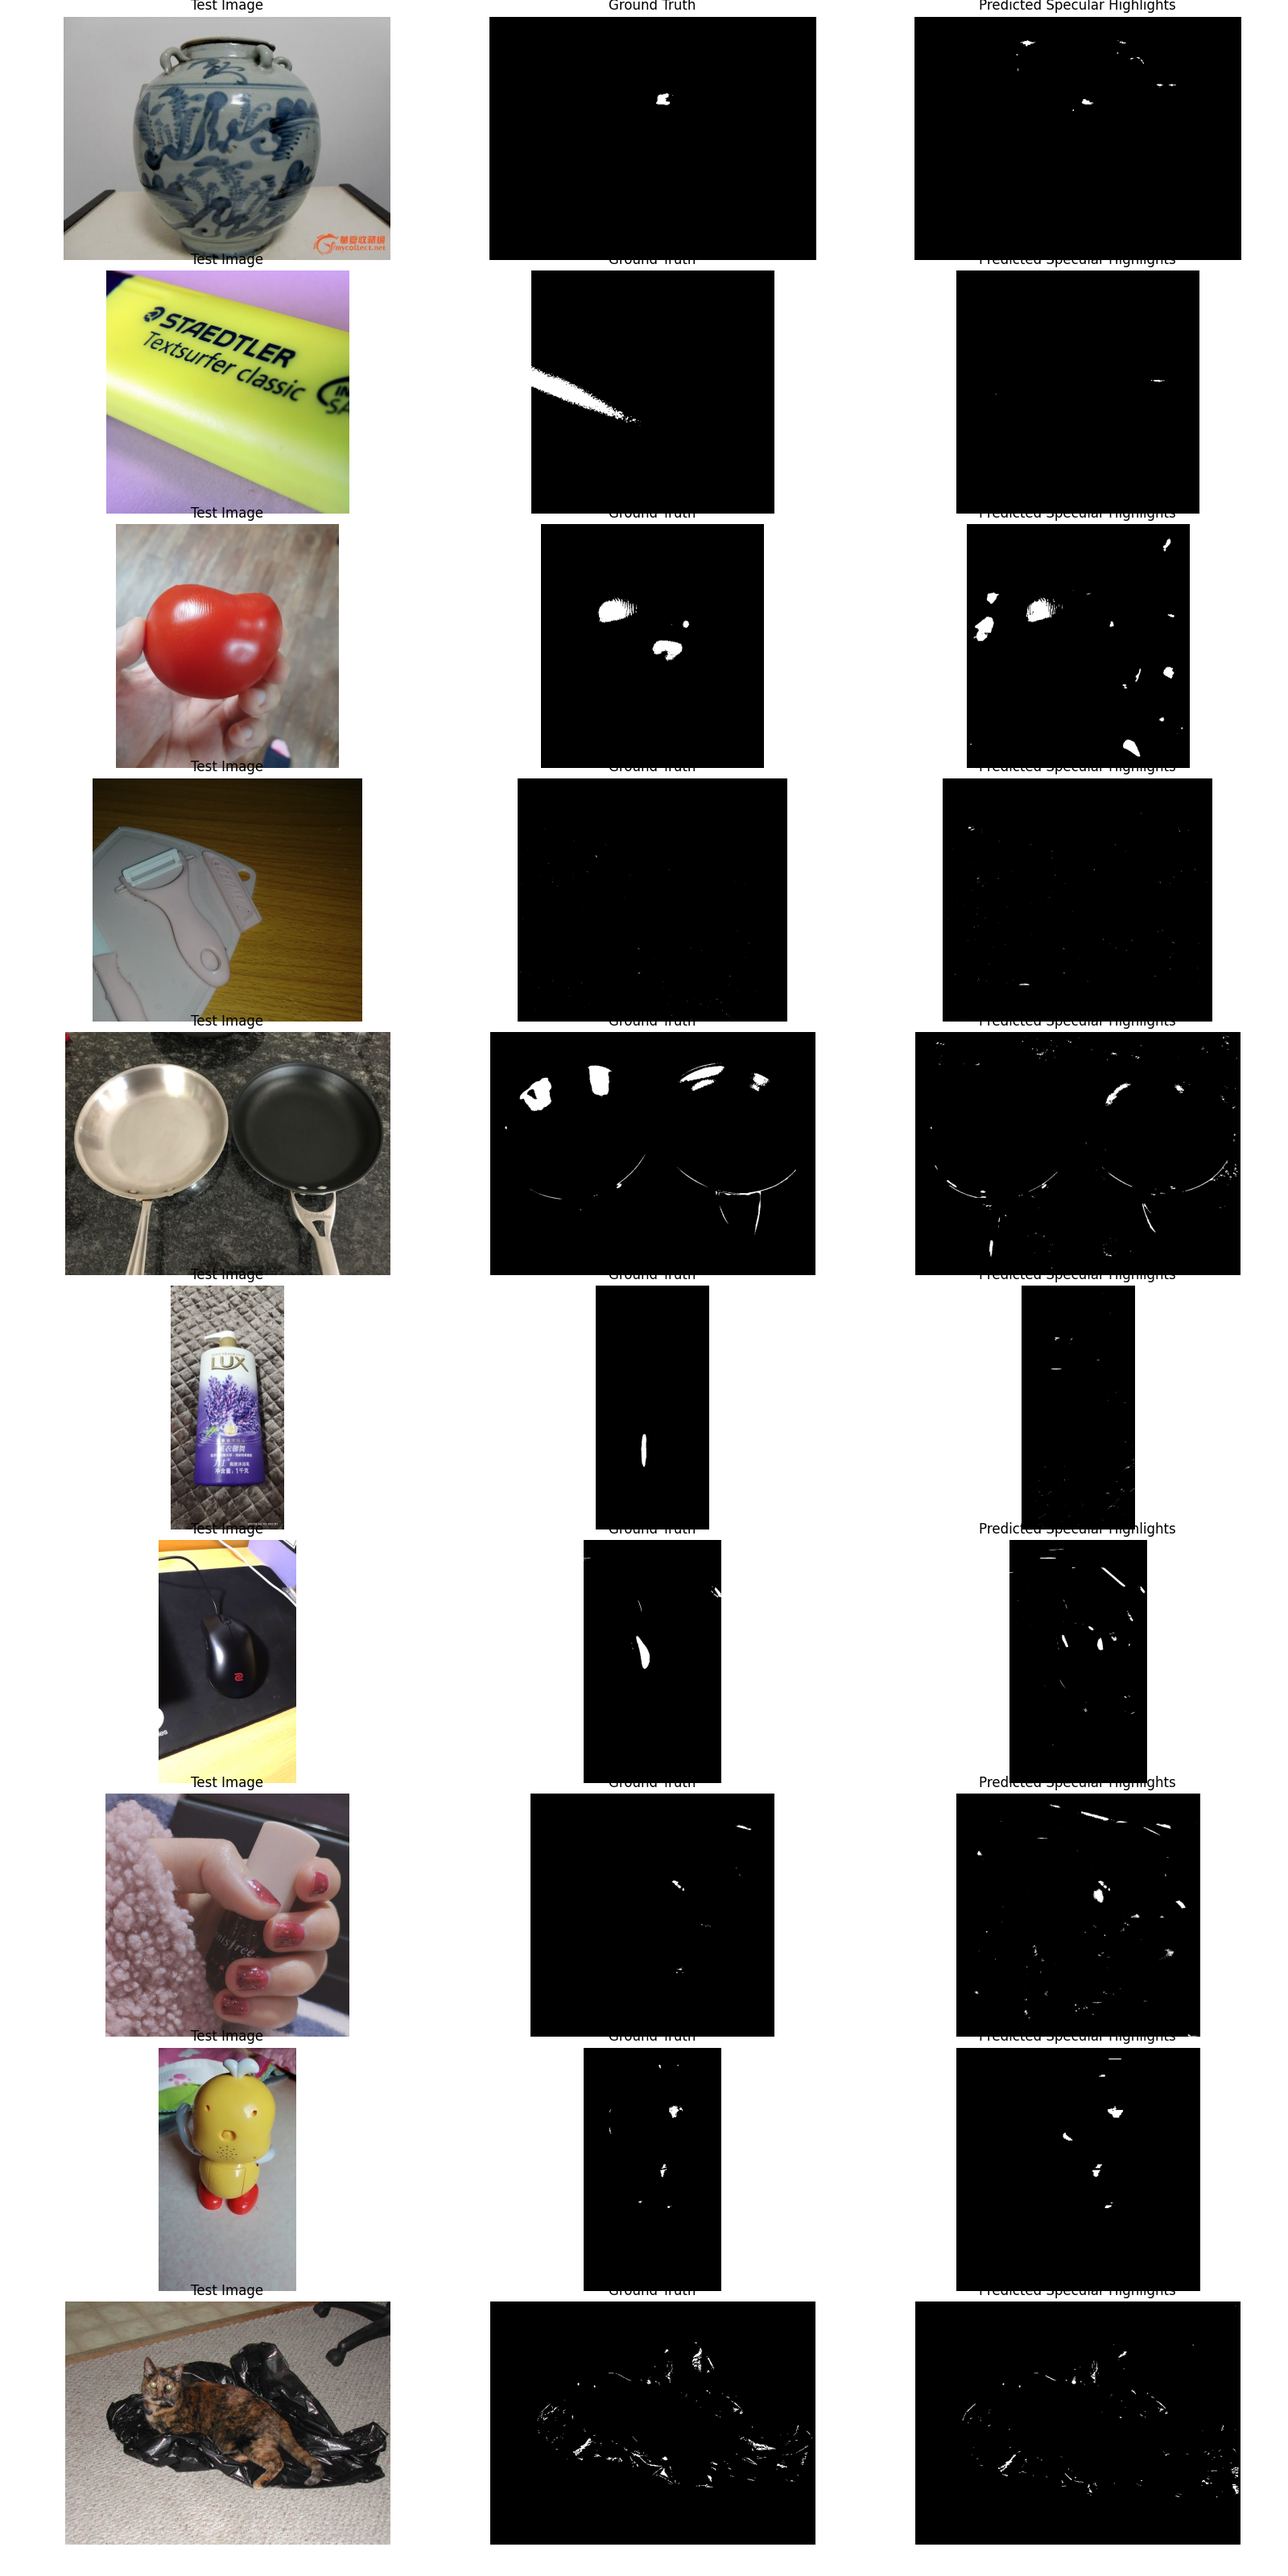
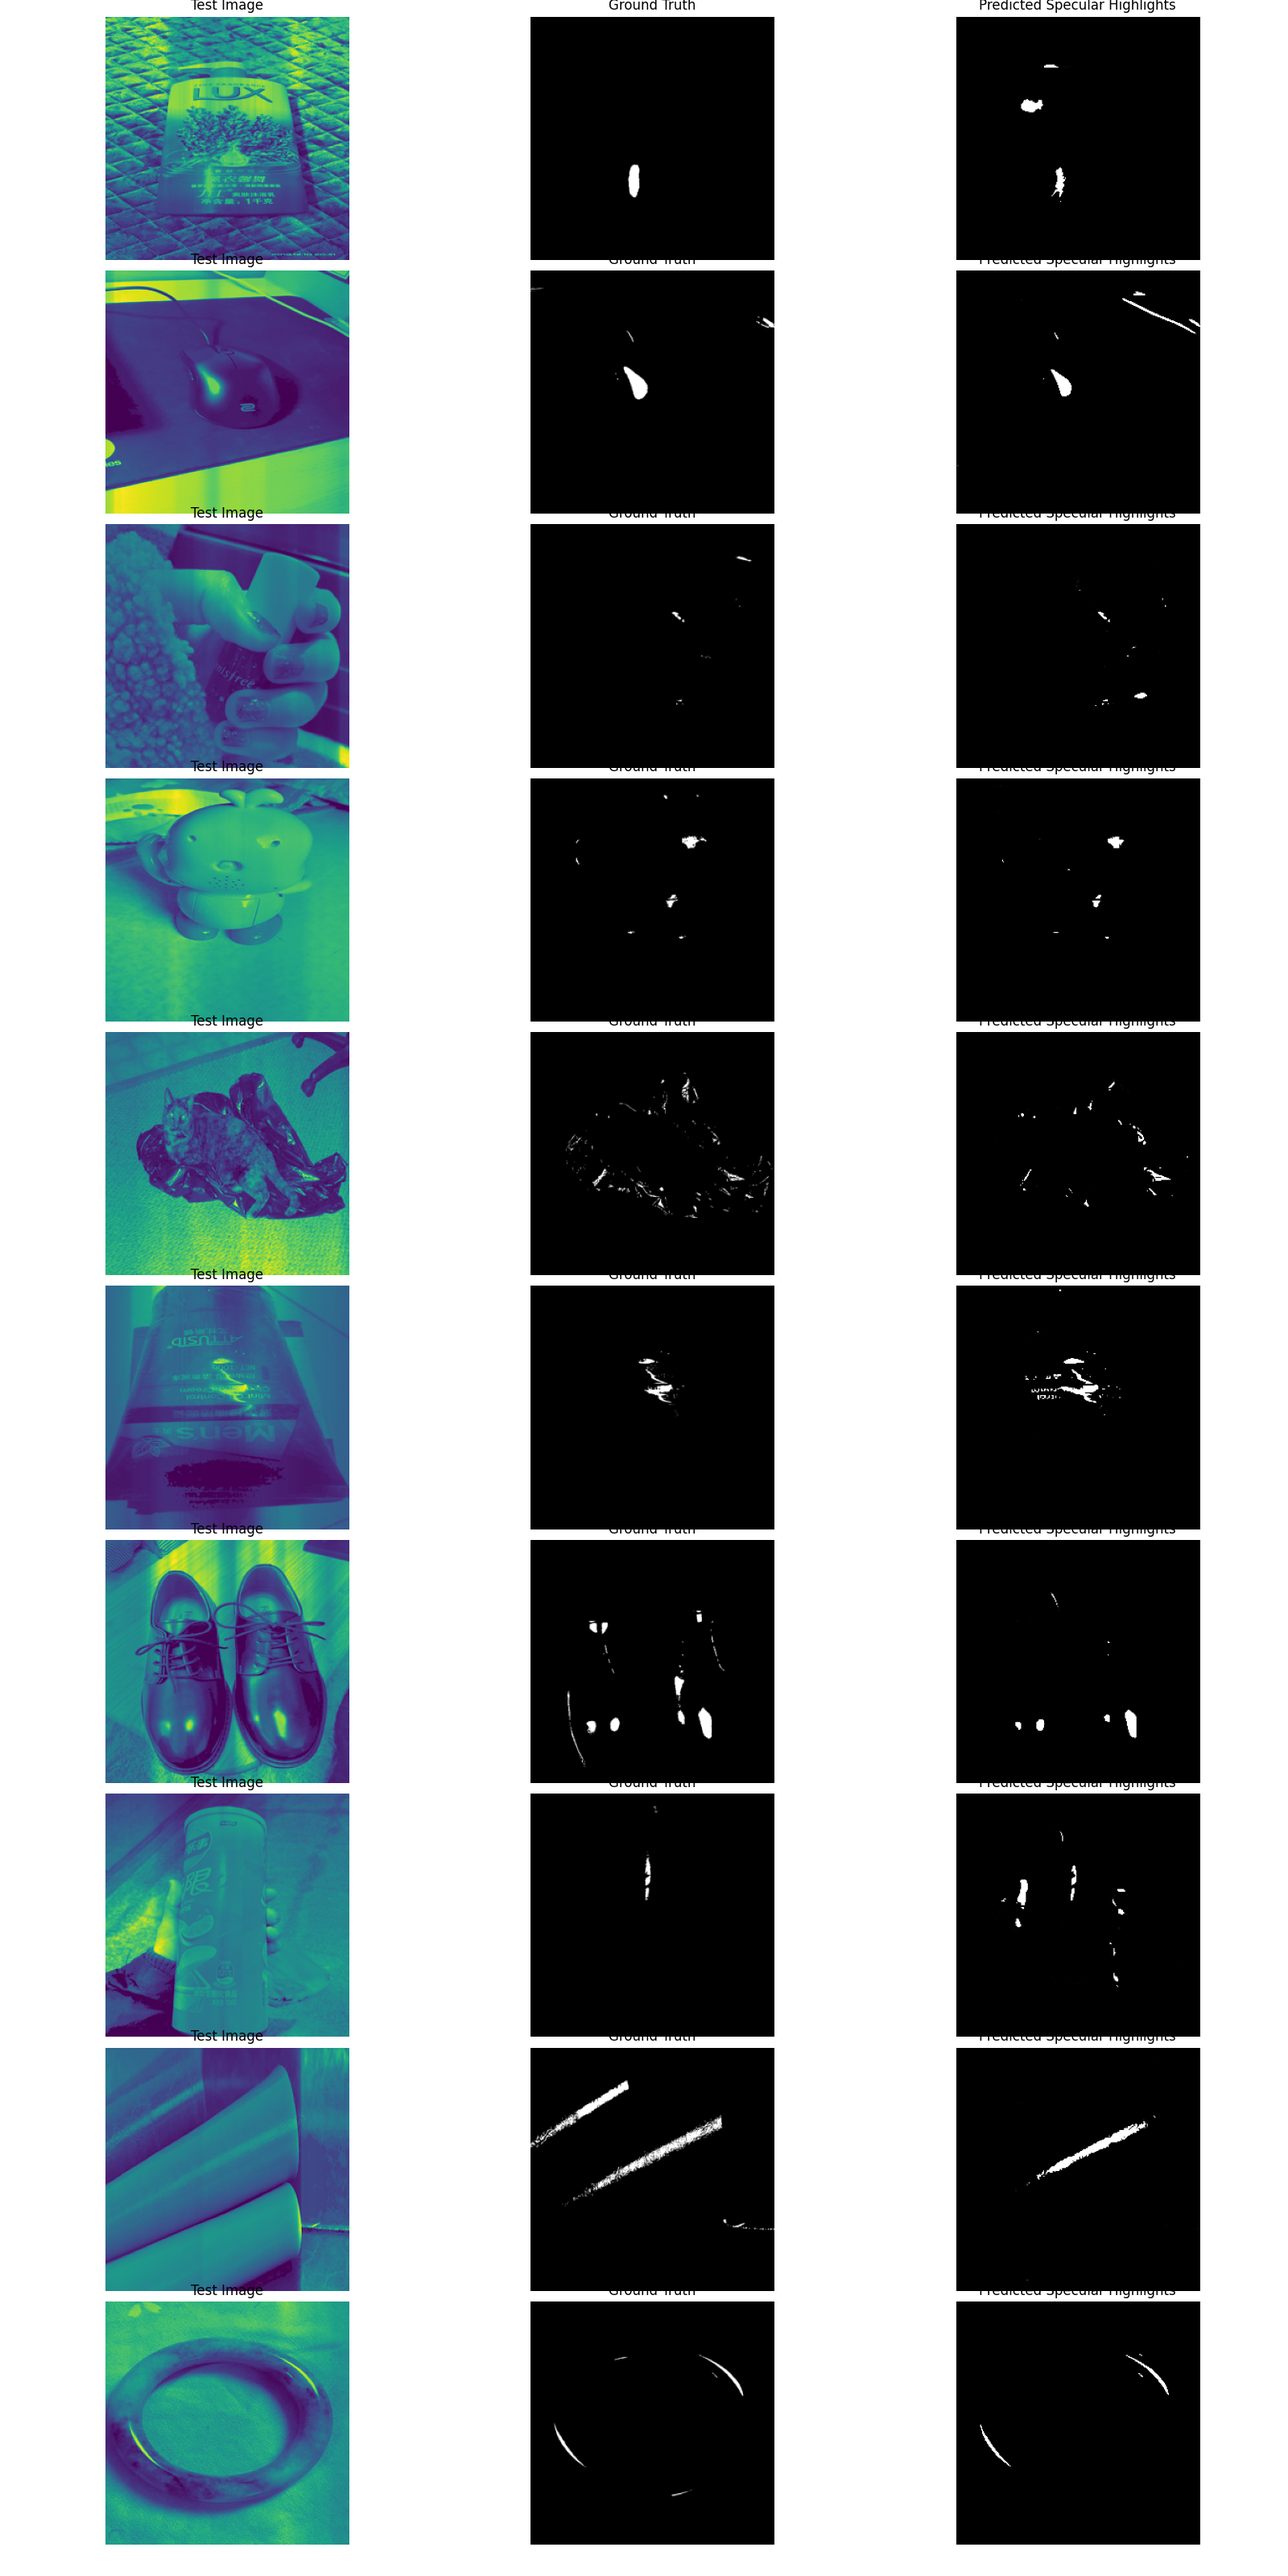
Resized and Full RGB images with Hydra multi-run

diff --git a/src/SpecSegv2.py b/src/SpecSegv2.py
@@ -205,42 +205,28 @@ def SpecSegv2( cfg: DictConfig ) -> None:
 
 
     # ---- Load SpecSeg Model ----
-    model = specseg(cfg.params.IMG_HEIGHT, cfg.params.IMG_WIDTH, cfg.params.IMG_CHANNELS)
+    # model = specseg(cfg.params.IMG_HEIGHT, cfg.params.IMG_WIDTH, cfg.params.IMG_CHANNELS)
+    model = specseg(None, None, cfg.params.IMG_CHANNELS)
+
     model.load_weights('SpecSeg_weights.hdf5') #Trained for 50 epochs and then additional 100
 
     # ---- Load Dataset in eithre RAM or as TF dataset ----
     # Load dataset using the Tensorflow dataset loader or directly into RAM
     if cfg.params.dataset_load == "TFLoader":
         length_dataset, Dataset, test_datset = datasetLoad_tf( cfg )
-    elif cfg.params.dataset_load == "RAM":
+    elif cfg.params.dataset_load == "RGB_RAM":
         image_dataset, mask_dataset = datasetload_ram( cfg )
+    elif cfg.params.dataset_load == "RESIZED_RAM":
+        image_dataset, mask_dataset = datasetload_ram_resized( cfg )
 
     # Make the iterator from the zipped datasets
     iterator = (zip(image_dataset, mask_dataset))
-
-    # # ---- To check if data loaded correctly ----
-    # image_number = random.randint(0, len(image_dataset))
-    # plt.figure(figsize=(12, 6))
-    # plt.subplot(121)
-    # # plt.imshow(np.reshape(X_train[image_number], (SIZE, SIZE)), cmap='gray')
-    # plt.imshow(image_dataset[image_number])
-    # plt.axis('off')
-    # plt.subplot(122)
-    # # plt.imshow(np.reshape(y_train[image_number], (SIZE, SIZE)), cmap='gray')
-    # plt.imshow(mask_dataset[image_number], cmap='gray')
-    # plt.axis('off')
-    # plt.show()
-
-    # # Get the next set of images
-    # element = next(iterator)
-    # # orig0   = element[0]
-    # # orig45  = element[1]
 
     # ---- Test on Random images ----
     # Enter number of images to test on
     num_images = 10
     # The starting index number from the images loaded
-    start = 20
+    start = 25
     index = 0
     img_no = 0
     fig, axes = plt.subplots(nrows=3, ncols=3, figsize=(16,32))
@@ -248,15 +234,19 @@ def SpecSegv2( cfg: DictConfig ) -> None:
     for i in tqdm(range(start, start+num_images), desc='Testing Image #', unit=' images'):
 
         test_img_number = i
-        test_img = cv2.cvtColor(image_dataset[test_img_number], cv2.COLOR_RGB2GRAY)
 
+        if cfg.params.dataset_load == 'RGB_RAM':
+            """ For testing Original RGB images """
+            test_img = cv2.cvtColor(image_dataset[test_img_number], cv2.COLOR_RGB2GRAY)
+            segmented_image = predict_patches(model, test_img, cfg.params.patch_size)
 
-        segmented_image = predict_patches(model, test_img, cfg.params.patch_size)
-        # plt.hist(segmented_image.flatten())  #Threshold everything above 0
+        elif cfg.params.dataset_load == 'RESIZED_RAM':
+            """ For testing resized images """
+            test_img = image_dataset[test_img_number]
+            test_img_norm=test_img[:,:,0][:,:,None]
+            test_img_input=np.expand_dims(test_img_norm, 0)
+            segmented_image = (model.predict(test_img_input)[0,:,:,0] )
 
-        # test_img_norm=test_img[:,:,0][:,:,None]
-        # test_img_input=np.expand_dims(test_img_norm, 0)
-        # prediction = (model.predict(test_img_input)[0,:,:,0] )
         # --------------TEST IMAGE-----------------
         plt.subplot(num_images,3,index+1)
         plt.title('Test Image')
@@ -467,6 +457,8 @@ def datasetload_ram( cfg: DictConfig ):
         if (image_name.split('.')[1] == 'png'):
             # Loading images as RGB
             image = cv2.cvtColor( cv2.imread(image_directory+image_name), cv2.COLOR_BGR2RGB)
+            # Load image as Grayscale
+            # image = cv2.imread(image_directory+image_name, 0)
             image = Image.fromarray(image)
             # image = image.resize( (SIZE, SIZE) )
             # q = np.array(image)
@@ -498,6 +490,58 @@ def datasetload_ram( cfg: DictConfig ):
     # return X_train, y_train, X_test, Y_test
     return image_dataset, mask_dataset
 
+@_time
+def datasetload_ram_resized( cfg: DictConfig ):
+    """
+    # --------------------------------------------------------------
+    #                       LOAD IMAGES IN RAM                     |
+    # --------------------------------------------------------------
+    """
+    image_directory = cfg.files.test_img_dir
+    mask_directory  = cfg.files.test_mask_dir
+
+    SIZE = 256
+    image_dataset = []  #Many ways to handle data, you can use pandas. Here, we are using a list format.
+    mask_dataset = []  #Place holders to define add labels. We will add 0 to all parasitized images and 1 to uninfected.
+
+    logging.info("Loading Test images")
+    images = natsorted(os.listdir(image_directory))
+    for i, image_name in enumerate(tqdm(images, desc='Test Images', unit=' images')):    #Remember enumerate method adds a counter and returns the enumerate object
+        if (image_name.split('.')[1] == 'png'):
+            # Loading images as RGB
+            # image = cv2.cvtColor( cv2.imread(image_directory+image_name), cv2.COLOR_BGR2RGB)
+            # Load image as Grayscale
+            image = cv2.imread(image_directory+image_name, 0)
+            image = Image.fromarray(image)
+            image = image.resize( (SIZE, SIZE) )
+            # q = np.array(image)
+            image_dataset.append( np.array(image) )
+
+    logging.info("Loading Test Masks")
+    masks = natsorted(os.listdir(mask_directory))
+    for i, image_name in enumerate(tqdm(masks, desc='Test Masks', unit=' images')):
+        if (image_name.split('.')[1] == 'png'):
+            # Loading images as GREYSCALE mode
+            image = cv2.imread(mask_directory+image_name, 0)
+            image = Image.fromarray(image)
+            image = image.resize( (SIZE, SIZE) )
+            mask_dataset.append( np.array(image) )
+
+    #Normalize images
+    image_dataset = np.expand_dims(normalize(np.array(image_dataset), axis=1),3)
+    #D not normalize masks, just rescale to 0 to 1.
+    # mask_dataset = np.expand_dims((np.array(mask_dataset)),3) /255.
+    mask_dataset = np.array( mask_dataset )/255.0
+
+
+    # X_train, X_test, y_train, Y_test = train_test_split(image_dataset, mask_dataset, test_size = 0.10, random_state = 0)
+
+    # cfg.IMG_HEIGHT = image_dataset.shape[1]
+    # cfg.IMG_WIDTH  = image_dataset.shape[2]
+    # cfg.IMG_CHANNELS = image_dataset.shape[3]
+
+    # return X_train, y_train, X_test, Y_test
+    return image_dataset, mask_dataset
 
 # ------------------------------------------------
 #               __  .__   __.  __  .___________.
